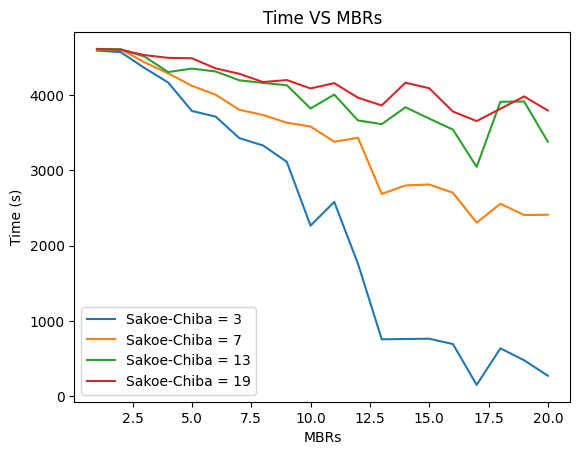
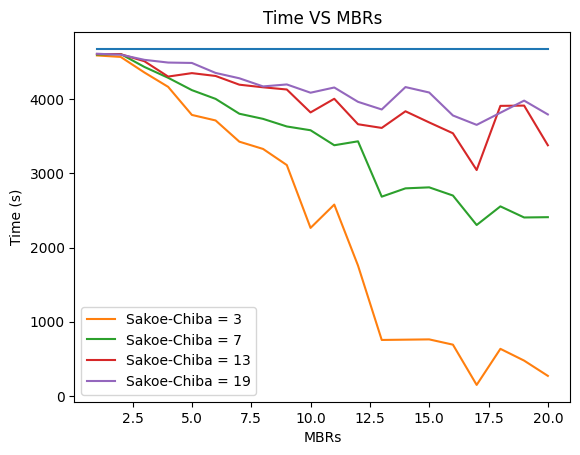
add comparison with DTW only

diff --git a/query_files/build_MBRS_sc_times_plots.py b/query_files/build_MBRS_sc_times_plots.py
@@ -16,6 +16,8 @@ sc_2 = 13
 sc_3 = 19
 sc_4 = 3
 plt.figure()
+# add comparison with DTW only
+plt.plot([1, 2, 3, 4, 5, 6, 7, 8, 9, 10, 11, 12, 13, 14, 15, 16, 17, 18, 19, 20], [4680, 4680, 4680, 4680, 4680, 4680, 4680, 4680, 4680, 4680, 4680, 4680, 4680, 4680, 4680, 4680, 4680, 4680, 4680, 4680])
 plt.plot(read_file["N"][read_file["Sakoe_Chiba"].isin([sc_4])], read_file["Time (s)"][read_file['Sakoe_Chiba'].isin([sc_4])], label = "Sakoe-Chiba = 3")
 plt.plot(read_file["N"][read_file["Sakoe_Chiba"].isin([sc_1])], read_file["Time (s)"][read_file['Sakoe_Chiba'].isin([sc_1])], label = "Sakoe-Chiba = 7")
 plt.plot(read_file["N"][read_file["Sakoe_Chiba"].isin([sc_2])], read_file["Time (s)"][read_file['Sakoe_Chiba'].isin([sc_2])], label = "Sakoe-Chiba = 13")
@@ -31,6 +33,8 @@ N_2 = 15
 N_3 = 19
 N_4 = 5
 plt.figure()
+# add comparison with DTW only
+plt.plot([1, 2, 3, 4, 5, 6, 7, 8, 9, 10, 11, 12, 13, 14, 15, 16, 17, 18, 19, 20], [4680, 4680, 4680, 4680, 4680, 4680, 4680, 4680, 4680, 4680, 4680, 4680, 4680, 4680, 4680, 4680, 4680, 4680, 4680, 4680])
 plt.plot(read_file["Sakoe_Chiba"][read_file["N"].isin([N_4])], read_file["Time (s)"][read_file['N'].isin([N_4])], label = "MBRs = 5")
 plt.plot(read_file["Sakoe_Chiba"][read_file["N"].isin([N_1])], read_file["Time (s)"][read_file['N'].isin([N_1])], label = "MBRs = 10")
 plt.plot(read_file["Sakoe_Chiba"][read_file["N"].isin([N_2])], read_file["Time (s)"][read_file['N'].isin([N_2])], label = "MBRs = 15")
